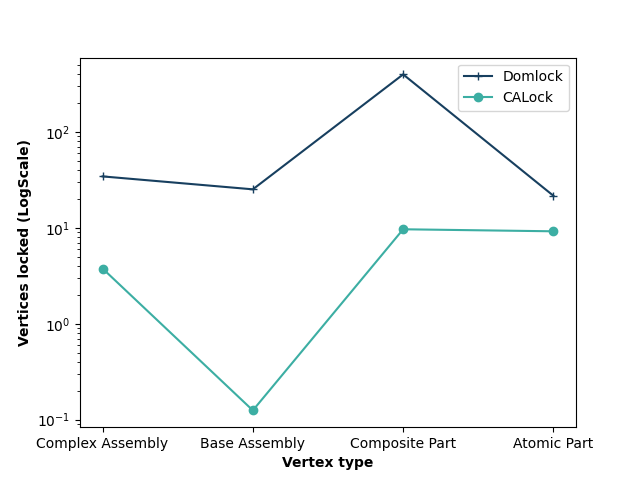
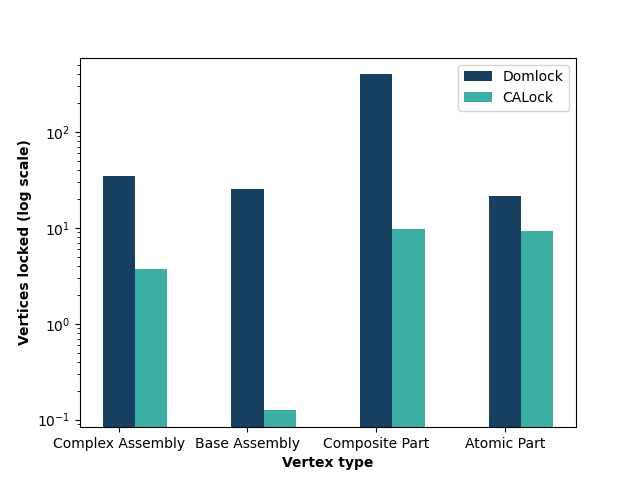
Save binary to parent  dir with Cmake

diff --git a/Performance Tests/src/operations/locking_ca/structural_modification_ops_ca.cpp b/Performance Tests/src/operations/locking_ca/structural_modification_ops_ca.cpp
@@ -121,59 +121,15 @@ int sb7::CAStructuralModification3::run(int tid) const {
 /////////////////////////////
 
 int sb7::CAStructuralModification4::run(int tid) const {
-//    //WriteLockHandle writeLockHandle(CA_lock_srv.getLock());
-//
-//    // generate random base assembly id
-//    int bassmId = get_random()->nextInt(parameters.getMaxBaseAssemblies()) + 1;
-//    BaseAssembly *bassm = dataHolder->getBaseAssembly(bassmId);
-//
-//    if (bassm == nullptr || !bassm->hasLabel) {
-//        throw Sb7Exception();
-//    }
-//
-//    // select one of composite parts used in the base assembly
-//    Bag<CompositePart *> *cpartBag = bassm->getComponents();
-//    int compNum = cpartBag->size();
-//
-//    if (compNum == 0) {
-//        throw Sb7Exception();
-//    }
-//
-//    int nextId = get_random()->nextInt(compNum);
-//
-//    // find component with that ordinal number
-//    BagIterator<CompositePart *> iter = cpartBag->getIter();
-//    int i = 0;
-//
-//    while (iter.has_next()) {
-//        /// Delete composite part and iterating over it to make locks is a trouble.
-//        /// Should we take read locks?
-//        CompositePart *cpart = iter.next();
-//        if (nextId == i && cpart->hasLabel && bassm->hasLabel) {
-//            boost::container::list<int> lockRequest = pool.addToLockRequest(dataHolder, bassm->pathLabel,cpart->pathLabel);
-//            DesignObj * lo = lscaHelpers::getLockObject(lockRequest, dataHolder);
-//            auto *l = new lockObject (lo->getLabellingId(), &lo->criticalAncestors, 1);
-//            if(pool.acquireLock(l, tid)) {
-//                /// Only issue the delete if the component has not be concurrently disconnected before the lock request was granted.
-//                if(bassm->hasLabel && cpart->hasLabel){
-//                    bassm->removeComponent(cpart);
-//                    //relabelling should only be done if the component is actually connected to anything. If not, we can avoid relabelling.
-//                    if(cpart->getUsedIn()->size()>0){
-//                        auto * r = new CArelabelling(dataHolder);
-//                        r->cpartQ.push(cpart);
-//                        r->run();
-//                    }
-//                }
-//                pool.releaseLock(l,tid);
-//            }
-//            return 0;
-//        }
-//
-//        i++;
-//    }
+    /// Add at the root
+    auto * l = new lockObject (dataHolder->getModule()->getDesignRoot()->getLabellingId(), &dataHolder->getModule()->getDesignRoot()->criticalAncestors, 1);
+    pool.acquireLock(l, tid);
+    dataHolder->createSubAssembly(dataHolder->getModule()->getDesignRoot(), 1);
+    auto * r = new CArelabelling(dataHolder);
+    r->cassmQ.push(dataHolder->getModule()->getDesignRoot());
+    r->run();
+    pool.releaseLock(l,tid);
 
-//    throw Sb7Exception(
-//            "SM4: concurrent modification of BaseAssembly.components!");
 return 0;
 }
 
@@ -182,29 +138,22 @@ return 0;
 /////////////////////////////
 
 int sb7::CAStructuralModification5::run(int tid) const {
-    // generate random base assembly id
-    int bassmId = get_random()->nextInt(
-            parameters.getMaxBaseAssemblies()) + 1;
-    BaseAssembly *bassm = dataHolder->getBaseAssembly(bassmId);
-
-    if (bassm == nullptr || !bassm->hasLabel) {
+    ///Add to a random complex assembly
+    int cassmId = get_random()->nextInt(parameters.getMaxComplexAssemblies()) + 1;
+    cassmId = (cassmId *(tid+1)) % parameters.getMaxComplexAssemblies();
+    ComplexAssembly *cassm = dataHolder->getComplexAssembly(cassmId);
+    if (cassm == nullptr || cassm->isDeleted) {
         throw Sb7Exception();
     }
 
-    auto * cassm =  bassm->getSuperAssembly();
 
-    auto * l = new lockObject (cassm->getLabellingId(), &cassm->criticalAncestors, 1);
+    auto * l = new lockObject (dataHolder->getModule()->getDesignRoot()->getLabellingId(), &dataHolder->getModule()->getDesignRoot()->criticalAncestors, 1);
     pool.acquireLock(l, tid);
-    /// Create sibling base assembly only if both the base and complex assembly exist and the complex assembly has a label.
-    if(bassm != nullptr && cassm->hasLabel){
-        dataHolder->createBaseAssembly(cassm);
-        auto * r = new CArelabelling(dataHolder);
-        r->bassmQ.push(bassm);
-        r->run();
-    }
+    dataHolder->createSubAssembly(cassm, 1);
+    auto * r = new CArelabelling(dataHolder);
+    r->cassmQ.push(cassm);
+    r->run();
     pool.releaseLock(l,tid);
-
-
 
     return 0;
 }
@@ -214,6 +163,27 @@ int sb7::CAStructuralModification5::run(int tid) const {
 /////////////////////////////
 
 int sb7::CAStructuralModification6::run(int tid) const {
+    /// Add a base assembly
+    ///Add to a random complex assembly
+    int bassmId = get_random()->nextInt(parameters.getMaxBaseAssemblies()) + 1;
+    cassmId = (cassmId *(tid+1)) % parameters.getMaxBaseAssemblies();
+    ComplexAssembly *cassm = dataHolder->getComplexAssembly(cassmId);
+    if (cassm == nullptr || cassm->isDeleted) {
+        throw Sb7Exception();
+    }
+
+
+    auto * l = new lockObject (dataHolder->getModule()->getDesignRoot()->getLabellingId(), &dataHolder->getModule()->getDesignRoot()->criticalAncestors, 1);
+    pool.acquireLock(l, tid);
+    dataHolder->createSubAssembly(cassm, 1);
+    auto * r = new CArelabelling(dataHolder);
+    r->cassmQ.push(cassm);
+    r->run();
+    pool.releaseLock(l,tid);
+
+    return 0;
+
+
 //   // WriteLockHandle writeLockHandle(CA_lock_srv.getLock());
 //
 //    // generate random base assembly id

diff --git a/Performance Tests/src/operations/locking_domLock/structural_modification_ops_dom.cpp b/Performance Tests/src/operations/locking_domLock/structural_modification_ops_dom.cpp
@@ -97,49 +97,25 @@ int sb7::DomStructuralModification3::run(int tid) const {
 /////////////////////////////
 
 int sb7::DomStructuralModification4::run(int tid) const {
-	//WriteLockHandle writeLockHandle(dom_lock_srv.getLock());
+    int cassmId = get_random()->nextInt(parameters.getMaxComplexAssemblies()) + 1;
+    cassmId = (cassmId *(tid+1)) % parameters.getMaxComplexAssemblies();
+    ComplexAssembly *cassm = dataHolder->getComplexAssembly(cassmId);
+    if (cassm == nullptr || cassm->isDeleted) {
+        throw Sb7Exception();
+    }
 
-	// generate random base assembly id
-	int bassmId = get_random()->nextInt(parameters.getMaxBaseAssemblies()) + 1;
-	BaseAssembly *bassm = dataHolder->getBaseAssembly(bassmId);
+    auto * l = new interval (dataHolder->getModule()->getDesignRoot()->m_pre_number, dataHolder->getModule()->getDesignRoot()->m_post_number, 1);
+    if(!ICheck.IsOverlap(l, 1, tid)) {
+        dataHolder->createSubAssembly(dataHolder->getModule()->getDesignRoot(), 1);
+        auto *r = new DomRelabelling(dataHolder);
+        auto t1 = std::chrono::high_resolution_clock::now();
+        r->traverse(dataHolder->getModule()->getDesignRoot());
+        auto t2 = std::chrono::high_resolution_clock::now();
+        ICheck.modificationTimeDom+= (t2-t1);
+        ICheck.count.fetch_add(1);
+        ICheck.Delete(tid);
+    }
 
-	if(bassm == nullptr) {
-		throw Sb7Exception();
-	}	
-
-	// select one of composite parts used in the base assembly
-	Set<CompositePart *> *cpartBag = bassm->getComponents();
-	int compNum = cpartBag->size();
-
-	if(compNum == 0) {
-		throw Sb7Exception();
-	}
-
-	int nextId = get_random()->nextInt(compNum);
-
-	// find component with that ordinal number
-	SetIterator<CompositePart *> iter = cpartBag->getIter();
-	int i = 0;
-
-	while(iter.has_next()) {
-		CompositePart *cpart = iter.next();
-
-		if(nextId == i) {
-            auto *inv = new interval(bassm->m_pre_number,bassm->m_post_number,1);
-            if(!ICheck.IsOverlap(inv, 1, tid)) {
-                bassm->removeComponent(cpart);
-                auto *r = new DomRelabelling(dataHolder);
-                r->traverse(dataHolder->getModule()->getDesignRoot());
-                ICheck.Delete(tid);
-            }
-			return 0;
-		}
-
-		i++;
-	}
-
-	throw Sb7Exception(
-		"SM4: concurrent modification of BaseAssembly.components!");
 }
 
 /////////////////////////////
@@ -147,30 +123,18 @@ int sb7::DomStructuralModification4::run(int tid) const {
 /////////////////////////////
 
 int sb7::DomStructuralModification5::run(int tid) const {
-	//WriteLockHandle writeLockHandle(dom_lock_srv.getLock());
-
-	// generate random base assembly id
-	int bassmId = get_random()->nextInt(
-		parameters.getMaxBaseAssemblies()) + 1;
-	BaseAssembly *bassm = dataHolder->getBaseAssembly(bassmId);
-
-	if(bassm == NULL) {
-		throw Sb7Exception();
-	}
-
-    auto * cassm =  bassm->getSuperAssembly();
-
-    auto *inv = new interval(cassm->m_pre_number,cassm->m_post_number,1);
-    if(!ICheck.IsOverlap(inv, 1, tid)) {
-        // create sibling base assembly
-        dataHolder->createBaseAssembly(bassm->getSuperAssembly());
+    auto * l = new interval (dataHolder->getModule()->getDesignRoot()->m_pre_number, dataHolder->getModule()->getDesignRoot()->m_post_number, 1);
+    if(!ICheck.IsOverlap(l, 1, tid)) {
+        dataHolder->createSubAssembly(dataHolder->getModule()->getDesignRoot(), 1);
         auto *r = new DomRelabelling(dataHolder);
+        auto t1 = std::chrono::high_resolution_clock::now();
         r->traverse(dataHolder->getModule()->getDesignRoot());
+        auto t2 = std::chrono::high_resolution_clock::now();
+        ICheck.modificationTimeDom+= (t2-t1);
+        ICheck.count.fetch_add(1);
         ICheck.Delete(tid);
     }
-
-
-	return 0;
+    return 0;
 }
 
 /////////////////////////////

diff --git a/Performance Tests/src/operations/operations.cpp b/Performance Tests/src/operations/operations.cpp
@@ -216,8 +216,10 @@ void sb7::Operations::initOperationsLockCA(DataHolder *dh) {
 //    ops.push_back(new CAStructuralModification1(dh)); Node creation
       ops.push_back(new CAStructuralModification2(dh));
       ops.push_back(new CAStructuralModification3(dh));
-      //      ops.push_back(new CAStructuralModification4(dh));
-//      ops.push_back(new CAStructuralModification5(dh));
+      /// These operations are only used for isolated structural modifications.
+      /// Do not use them in a performance benchmark. Correctness is not guaranteed
+//    ops.push_back(new CAStructuralModification4(dh));
+//    ops.push_back(new CAStructuralModification5(dh));
 //    ops.push_back(new CAStructuralModification6(dh));
 //    ops.push_back(new CAStructuralModification7(dh));
 //    ops.push_back(new CAStructuralModification8(dh));
@@ -268,12 +270,13 @@ void sb7::Operations::initOperationsLockDom(DataHolder *dh) {
 //    ops.push_back(new DomStructuralModification1(dh)); Node creation
     ops.push_back(new DomStructuralModification2(dh));
     ops.push_back(new DomStructuralModification3(dh));
-    //    ops.push_back(new DomStructuralModification4(dh));
+    /// These operations are only used for isolated structural modifications.
+    /// Do not use them in a performance benchmark. These are performed under a mutex to get absolute performance measure
+//        ops.push_back(new DomStructuralModification4(dh));
 //    ops.push_back(new DomStructuralModification5(dh));
 //    ops.push_back(new DomStructuralModification6(dh));
 //    ops.push_back(new DomStructuralModification7(dh));
 //    ops.push_back(new DomStructuralModification8(dh));
-
 }
 
 

diff --git a/Performance Tests/src/benchmark.cpp b/Performance Tests/src/benchmark.cpp
@@ -108,7 +108,11 @@ void sb7::Benchmark::init() {
     /// in the operations. Hence creating it is one way to ensure that no null transactions are considered successful.
     auto *dfs = new CALockTraversal(&dataHolder);
     cout << "Creating labels for nodes" << std::endl;
+    auto t1 = std::chrono::high_resolution_clock::now();
     dfs->run(0);
+    auto t2 = std::chrono::high_resolution_clock::now();
+    std::chrono::duration<long double, std::nano> initialLabellingTime = t2-t1;
+    cout<<"Labelling time for CALock: "<<initialLabellingTime.count()<<endl;
     cout << "Creation complete" << std::endl;
     auto *dts = new CALockLabelTest(&dataHolder);
     cout << "Testing labels" << endl;
@@ -117,7 +121,11 @@ void sb7::Benchmark::init() {
 
     if (parameters.getLockType() == Parameters::lock_dom || parameters.getBenchmarkContainment()) {
         auto *dfs = new DomLockTraversal(&dataHolder);
+        auto tD1 = std::chrono::high_resolution_clock::now();
         dfs->run(0);
+        auto tD2 = std::chrono::high_resolution_clock::now();
+        std::chrono::duration<long double, std::nano> initialLabellingTimeDom = tD2-tD1;
+        cout<<"Labelling time for DomLock: "<<initialLabellingTimeDom.count()<<endl;
         cout << "Interval assignment complete" << endl;
 
     }

diff --git a/Performance Tests/initialLabelling.py b/Performance Tests/initialLabelling.py
@@ -1,0 +1,33 @@
+# Import the necessary modules
+import matplotlib.pyplot as plt
+import pandas as pd
+import numpy as np
+import sys
+# Initialize the lists for X and Y
+
+LockType = ("Small", "Medium", "Large")
+DomLock =  (4.3501e+07,4.66862e+07,5.84065e+08)
+CALock=( 4.36426e+08, 7.17528e+08,7.15851e+09)
+
+x = np.arange(len(LockType))  # the label locations
+width = 0.25  # the width of the bars
+
+
+# # Add some text for labels, title and custom x-axis tick labels, etc.
+# ax.set_ylabel('Label Assignment Time (ns logScale)')
+# ax.set_xlabel('Size of the hierarchy')
+# ax.set_xticks(x + width, LockType)
+# ax.set_yscale("log")
+# ax.legend()
+#
+# plt.show()
+
+plt.bar(x, DomLock, width=width,color='#173f5f', label='Domlock')
+plt.bar(x+width, CALock, width=width,color='#3caea3', label='CALock')
+plt.xlabel('Hierarchy Size', fontweight='bold')
+plt.ylabel('Labelling time (ns LogScale)', fontweight='bold')
+plt.xticks([0,1,2], ['Small', 'Medium', 'Large'])
+plt.yscale('log')
+# # Create legend & Show graphic
+plt.legend()
+plt.savefig("./benchmarkCharts/InitialLabelling.png")

diff --git a/Performance Tests/ContainmentRatios.py b/Performance Tests/ContainmentRatios.py
@@ -15,11 +15,14 @@ df.to_csv("./benchmarkCharts/ContainmentRatio.csv", index=False)
 x = df.groupby('Type', as_index=False).agg('mean')
 print(x)
 
+n=4
+r = np.arange(n)
+width = 0.25
 
-plt.plot(x['Domlock'], color='#173f5f', label='Domlock', marker='+')
-plt.plot(x['CALock'], color='#3caea3', label='CALock', marker='o')
+plt.bar(r, x['Domlock'], width=width,color='#173f5f', label='Domlock')
+plt.bar(r+width, x['CALock'], width=width,color='#3caea3', label='CALock')
 plt.xlabel('Vertex type', fontweight='bold')
-plt.ylabel('Vertices locked (LogScale)', fontweight='bold')
+plt.ylabel('Vertices locked (log scale)', fontweight='bold')
 
 plt.xticks([0,1,2,3], ['Complex Assembly', 'Base Assembly', 'Composite Part', 'Atomic Part'])
 plt.yscale('log')

diff --git a/Performance Tests/src/CArelabelling.cpp b/Performance Tests/src/CArelabelling.cpp
@@ -44,12 +44,14 @@ void CArelabelling::traverse(ComplexAssembly *cassm) {
         return;
     }
     list<int> currLabel = cassm->pathLabel;
-    list<int> superLabel = cassm->getSuperAssembly()->pathLabel;
-    superLabel.push_back((cassm->getId()*10)+1);
-
-    if(currLabel == superLabel){
-        return;
+    if(cassm != dataHolder->getModule()->getDesignRoot()){
+        list<int> superLabel = cassm->getSuperAssembly()->pathLabel;
+        superLabel.push_back((cassm->getId()*10)+1);
+        if(currLabel == superLabel){
+            return;
+        }
     }
+
 
     Set<Assembly *> *subAssm = cassm->getSubAssemblies();
     SetIterator<Assembly *> iter = subAssm->getIter();
